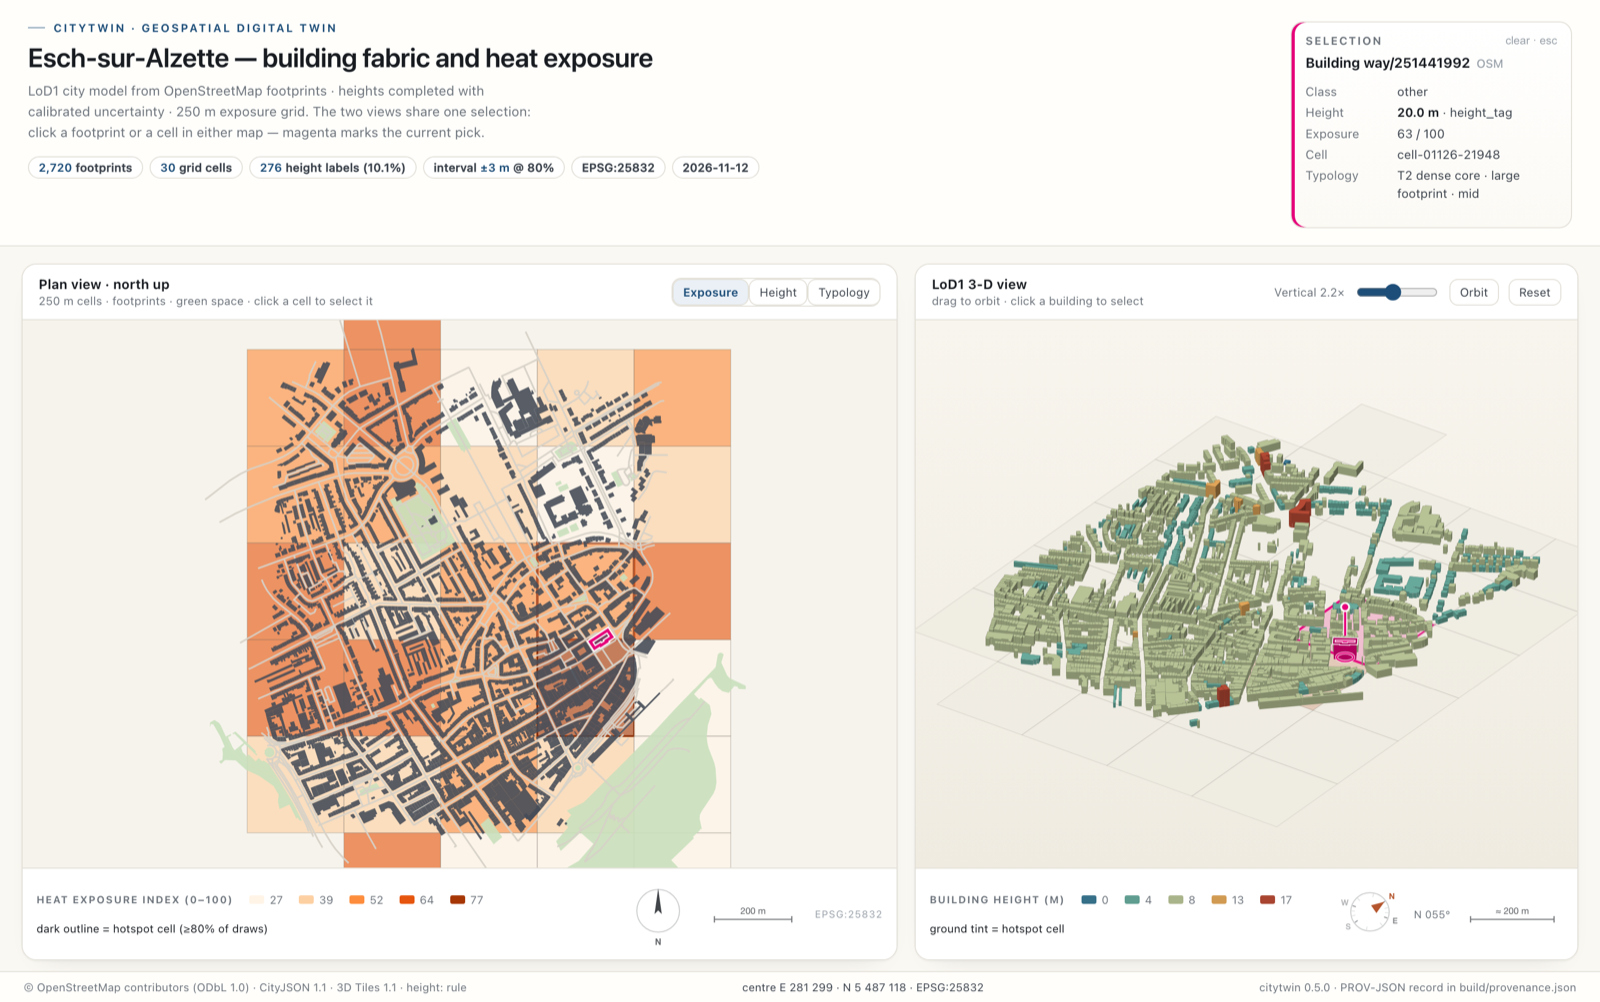
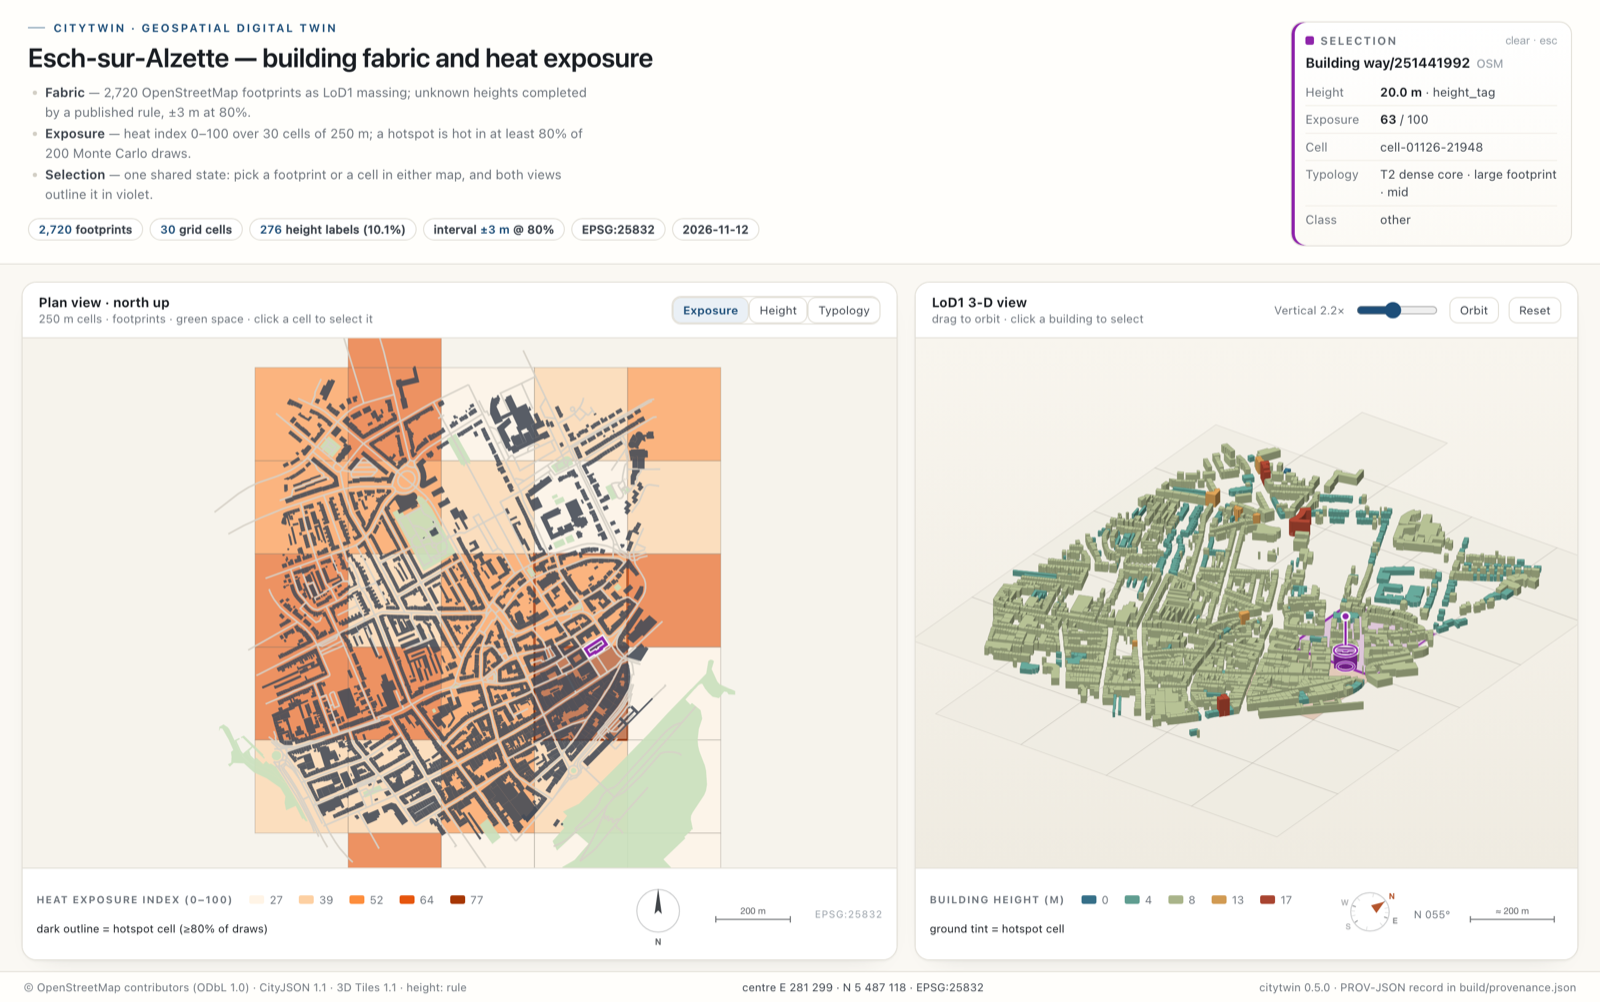
Viewer: bulleted page copy and a violet selection that reads on every ramp
- header now states the three ideas as bullets: fabric, exposure, shared selection
- selection panel explains the interaction as bullets, and reports a building or
  cell as labelled rows instead of a dense key-value block
- selection colour moves from hot magenta to violet #8e24aa with a white halo; the
  3-D view adds a roof reticle and pin so the pick is findable in a dense block

diff --git a/web/index.html b/web/index.html
@@ -10,7 +10,7 @@
     --line:#e3e0d8; --line-strong:#d2cec4;
     --paper:#faf8f3; --panel:#fffefb; --canvas:#f5f2eb;
     --accent:#1d4e79; --accent-2:#b4552d; --accent-soft:#eaf0f6;
-    --green:#bcd8b6; --signal:#e6007a;
+    --green:#bcd8b6; --signal:#8e24aa;
   }
   *{box-sizing:border-box}
   html,body{height:100%}
@@ -25,7 +25,11 @@
     font-weight:650;margin:0 0 7px;display:flex;align-items:center;gap:8px}
   .kicker::before{content:"";width:16px;height:1px;background:var(--accent);opacity:.6}
   h1{margin:0;font-size:25px;font-weight:620;letter-spacing:-.015em;line-height:1.18}
-  .sub{margin:7px 0 0;color:var(--muted);font-size:12.5px;max-width:62ch;line-height:1.55}
+  .lede{margin:9px 0 0;padding:0 0 0 16px;max-width:70ch;color:var(--muted);
+    font-size:12.2px;line-height:1.5}
+  .lede li{margin:2px 0}
+  .lede li::marker{color:var(--line-strong)}
+  .lede b{color:var(--ink-soft);font-weight:640}
   .chips{display:flex;gap:6px;flex-wrap:wrap;margin-top:13px}
   .chip{background:#fff;color:var(--ink-soft);border:1px solid var(--line);
     border-radius:999px;padding:3px 9px;font-size:10.8px;font-weight:520;letter-spacing:.01em}
@@ -35,7 +39,9 @@
     background:linear-gradient(180deg,#fff,#fcfaf5);padding:11px 13px 12px;
     box-shadow:0 1px 0 rgba(24,28,33,.03)}
   .inspector h2{margin:0 0 7px;font-size:10.5px;letter-spacing:.12em;text-transform:uppercase;
-    color:var(--muted);font-weight:650;display:flex;justify-content:space-between;align-items:center}
+    color:var(--muted);font-weight:650;display:flex;align-items:center;gap:6px}
+  .inspector h2::before{content:"";width:8px;height:8px;border-radius:2px;background:var(--signal);flex:0 0 8px}
+  .inspector h2 button{margin-left:auto}
   #inspector.sel{box-shadow:inset 3px 0 0 var(--signal)}
   .inspector h2 button{border:none;background:none;color:var(--faint);font-size:10.5px;
     padding:0;cursor:pointer;letter-spacing:0;text-transform:none}
@@ -47,6 +53,18 @@
   .kv dd strong{color:var(--ink);font-weight:640}
   .inspect-id{font-size:13px;font-weight:650;margin:0 0 8px;letter-spacing:-.01em}
   .inspect-id span{color:var(--faint);font-weight:500;font-size:11px;margin-left:6px}
+  .facts{list-style:none;margin:0;padding:0;font-size:11.5px;line-height:1.45}
+  .facts li{display:grid;grid-template-columns:62px 1fr;gap:8px;padding:4px 0;
+    border-bottom:1px solid #f2efe8}
+  .facts li:last-child{border-bottom:0}
+  .facts .k{color:var(--muted)}
+  .facts .v{color:var(--ink-soft);font-variant-numeric:tabular-nums}
+  .facts .v strong{color:var(--ink);font-weight:640}
+  .hints{margin:6px 0 0;padding:0 0 0 14px;color:var(--muted);font-size:11.5px;
+    line-height:1.5}
+  .hints li{margin:2px 0}
+  .hints li::marker{color:var(--line-strong)}
+  .empty-lead{margin:0;color:var(--ink-soft);font-size:11.8px;font-weight:600}
 
   main{flex:1;display:grid;grid-template-columns:1.32fr 1fr;gap:16px;padding:16px 20px 10px;min-height:0}
   .panel{background:var(--panel);border:1px solid var(--line);border-radius:14px;display:flex;
@@ -114,12 +132,23 @@
   <div class="masthead">
     <p class="kicker">citytwin · geospatial digital twin</p>
     <h1>Esch-sur-Alzette — building fabric and heat exposure</h1>
-    <p class="sub">LoD1 city model from OpenStreetMap footprints · heights completed with calibrated uncertainty · 250 m exposure grid. The two views share one selection: click a footprint or a cell in either map — magenta marks the current pick.</p>
+    <ul class="lede">
+      <li><b>Fabric</b> — 2,720 OpenStreetMap footprints as LoD1 massing; unknown heights completed by a published rule, ±3 m at 80%.</li>
+      <li><b>Exposure</b> — heat index 0–100 over 30 cells of 250 m; a hotspot is hot in at least 80% of 200 Monte Carlo draws.</li>
+      <li><b>Selection</b> — one shared state: pick a footprint or a cell in either map, and both views outline it in violet.</li>
+    </ul>
     <div class="chips" id="chips"></div>
   </div>
   <aside class="inspector" id="inspector">
     <h2>Selection <button id="clearSel" hidden>clear · esc</button></h2>
-    <div id="inspectBody"><p class="empty">Nothing selected. Click a building in the plan or the 3-D view; click a cell background to select a grid cell.</p></div>
+    <div id="inspectBody">
+      <p class="empty-lead">Nothing selected yet</p>
+      <ul class="hints">
+        <li>Click a building in either map.</li>
+        <li>Click a cell background to select the 250 m cell.</li>
+        <li>Press <b>Esc</b>, or clear above, to reset.</li>
+      </ul>
+    </div>
   </aside>
 </header>
 
@@ -208,7 +237,7 @@
   const HEIGHT_RAMP = ['#356f88','#5f9d90','#a9b48a','#d19a52','#a84430'];
   const TYPO_COLOURS = ['#4e79a7','#f28e2b','#59a14f','#b07aa1','#76b7b2','#edc948','#9c755f'];
   const ACCENT = '#b4552d';
-  const SIGNAL = '#e6007a';      // selection only — no base layer uses magenta
+  const SIGNAL = '#8e24aa';      // selection only — a violet no base ramp uses
   const INK = '#191d22';
 
   const state = {
@@ -427,11 +456,11 @@
       pts.forEach((p,k)=> k?planCtx.lineTo(p[0],p[1]):planCtx.moveTo(p[0],p[1]));
       planCtx.closePath();
       if(selected >= 0){
-        planCtx.fillStyle = 'rgba(230,0,122,.22)'; planCtx.fill();
+        planCtx.fillStyle = 'rgba(142,36,170,.18)'; planCtx.fill();
         planCtx.strokeStyle = 'rgba(255,255,255,.96)'; planCtx.lineWidth = 5.2; planCtx.stroke();
         planCtx.strokeStyle = SIGNAL; planCtx.lineWidth = 2.7; planCtx.stroke();
       } else {
-        planCtx.strokeStyle = 'rgba(230,0,122,.85)'; planCtx.lineWidth = 1.4; planCtx.stroke();
+        planCtx.strokeStyle = 'rgba(142,36,170,.85)'; planCtx.lineWidth = 1.4; planCtx.stroke();
       }
     }
 
@@ -613,7 +642,12 @@
       isoCtx.ellipse(px, py, 8, 4, 0, 0, Math.PI*2);
       isoCtx.strokeStyle = 'rgba(255,255,255,.95)'; isoCtx.lineWidth = 2.6; isoCtx.stroke();
       isoCtx.strokeStyle = alpha(SIGNAL,.95); isoCtx.lineWidth = 1.6; isoCtx.stroke();
-      // pin above the roof: easy to spot in a dense block
+      // reticle on the roof plus a pin above it: easy to spot in a dense block
+      isoCtx.beginPath();
+      isoCtx.ellipse(rx, ry, 11, 5.5, 0, 0, Math.PI*2);
+      isoCtx.strokeStyle = 'rgba(255,255,255,.95)'; isoCtx.lineWidth = 3.2; isoCtx.stroke();
+      isoCtx.strokeStyle = alpha(SIGNAL,.95); isoCtx.lineWidth = 1.8; isoCtx.stroke();
+      // pin above the roof
       isoCtx.beginPath(); isoCtx.moveTo(rx, ry-5); isoCtx.lineTo(rx, ry-30);
       isoCtx.strokeStyle = 'rgba(255,255,255,.95)'; isoCtx.lineWidth = 4; isoCtx.stroke();
       isoCtx.strokeStyle = SIGNAL; isoCtx.lineWidth = 2; isoCtx.stroke();
@@ -721,13 +755,13 @@
       clear.hidden = false;
       body.innerHTML =
         '<p class="inspect-id">Building '+b.id+'<span>OSM</span></p>' +
-        '<dl class="kv">' +
-        '<dt>Class</dt><dd>'+b.k+'</dd>' +
-        '<dt>Height</dt><dd><strong>'+b.h.toFixed(1)+' m</strong> · '+b.p+'</dd>' +
-        '<dt>Exposure</dt><dd>'+(isFinite(b.hei)?b.hei.toFixed(0):'–')+' / 100</dd>' +
-        '<dt>Cell</dt><dd>'+b.cid+'</dd>' +
-        '<dt>Typology</dt><dd>'+b.tn+'</dd>' +
-        '</dl>';
+        '<ul class="facts">' +
+        '<li><span class="k">Height</span><span class="v"><strong>'+b.h.toFixed(1)+' m</strong> · '+b.p+'</span></li>' +
+        '<li><span class="k">Exposure</span><span class="v"><strong>'+(isFinite(b.hei)?b.hei.toFixed(0):'–')+'</strong> / 100</span></li>' +
+        '<li><span class="k">Cell</span><span class="v">'+b.cid+'</span></li>' +
+        '<li><span class="k">Typology</span><span class="v">'+b.tn+'</span></li>' +
+        '<li><span class="k">Class</span><span class="v">'+b.k+'</span></li>' +
+        '</ul>';
       return;
     }
     if(state.selC >= 0){
@@ -735,15 +769,21 @@
       clear.hidden = false;
       body.innerHTML =
         '<p class="inspect-id">Cell '+cell.id+'<span>250 m grid</span></p>' +
-        '<dl class="kv">' +
-        '<dt>Exposure</dt><dd><strong>'+cell.hei.toFixed(0)+'</strong> / 100</dd>' +
-        '<dt>Hotspot</dt><dd>'+(isFinite(cell.hp)?Math.round(cell.hp*100)+'% of draws':'–')+'</dd>' +
-        '<dt>Buildings</dt><dd>'+cellBuildings(state.selC)+'</dd>' +
-        '</dl>';
+        '<ul class="facts">' +
+        '<li><span class="k">Exposure</span><span class="v"><strong>'+cell.hei.toFixed(0)+'</strong> / 100</span></li>' +
+        '<li><span class="k">Hotspot</span><span class="v">'+(isFinite(cell.hp)?Math.round(cell.hp*100)+'% of draws':'–')+'</span></li>' +
+        '<li><span class="k">Buildings</span><span class="v">'+cellBuildings(state.selC)+'</span></li>' +
+        '</ul>';
       return;
     }
     clear.hidden = true;
-    body.innerHTML = '<p class="empty">Nothing selected. Click a building in the plan or the 3-D view; click a cell background to select a grid cell.</p>';
+    body.innerHTML =
+      '<p class="empty-lead">Nothing selected yet</p>' +
+      '<ul class="hints">' +
+      '<li>Click a building in either map.</li>' +
+      '<li>Click a cell background to select the 250 m cell.</li>' +
+      '<li>Press <b>Esc</b>, or clear above, to reset.</li>' +
+      '</ul>';
   }
 
   function showTip(b, ev){

diff --git a/web/template.html b/web/template.html
@@ -10,7 +10,7 @@
     --line:#e3e0d8; --line-strong:#d2cec4;
     --paper:#faf8f3; --panel:#fffefb; --canvas:#f5f2eb;
     --accent:#1d4e79; --accent-2:#b4552d; --accent-soft:#eaf0f6;
-    --green:#bcd8b6; --signal:#e6007a;
+    --green:#bcd8b6; --signal:#8e24aa;
   }
   *{box-sizing:border-box}
   html,body{height:100%}
@@ -25,7 +25,11 @@
     font-weight:650;margin:0 0 7px;display:flex;align-items:center;gap:8px}
   .kicker::before{content:"";width:16px;height:1px;background:var(--accent);opacity:.6}
   h1{margin:0;font-size:25px;font-weight:620;letter-spacing:-.015em;line-height:1.18}
-  .sub{margin:7px 0 0;color:var(--muted);font-size:12.5px;max-width:62ch;line-height:1.55}
+  .lede{margin:9px 0 0;padding:0 0 0 16px;max-width:70ch;color:var(--muted);
+    font-size:12.2px;line-height:1.5}
+  .lede li{margin:2px 0}
+  .lede li::marker{color:var(--line-strong)}
+  .lede b{color:var(--ink-soft);font-weight:640}
   .chips{display:flex;gap:6px;flex-wrap:wrap;margin-top:13px}
   .chip{background:#fff;color:var(--ink-soft);border:1px solid var(--line);
     border-radius:999px;padding:3px 9px;font-size:10.8px;font-weight:520;letter-spacing:.01em}
@@ -35,7 +39,9 @@
     background:linear-gradient(180deg,#fff,#fcfaf5);padding:11px 13px 12px;
     box-shadow:0 1px 0 rgba(24,28,33,.03)}
   .inspector h2{margin:0 0 7px;font-size:10.5px;letter-spacing:.12em;text-transform:uppercase;
-    color:var(--muted);font-weight:650;display:flex;justify-content:space-between;align-items:center}
+    color:var(--muted);font-weight:650;display:flex;align-items:center;gap:6px}
+  .inspector h2::before{content:"";width:8px;height:8px;border-radius:2px;background:var(--signal);flex:0 0 8px}
+  .inspector h2 button{margin-left:auto}
   #inspector.sel{box-shadow:inset 3px 0 0 var(--signal)}
   .inspector h2 button{border:none;background:none;color:var(--faint);font-size:10.5px;
     padding:0;cursor:pointer;letter-spacing:0;text-transform:none}
@@ -47,6 +53,18 @@
   .kv dd strong{color:var(--ink);font-weight:640}
   .inspect-id{font-size:13px;font-weight:650;margin:0 0 8px;letter-spacing:-.01em}
   .inspect-id span{color:var(--faint);font-weight:500;font-size:11px;margin-left:6px}
+  .facts{list-style:none;margin:0;padding:0;font-size:11.5px;line-height:1.45}
+  .facts li{display:grid;grid-template-columns:62px 1fr;gap:8px;padding:4px 0;
+    border-bottom:1px solid #f2efe8}
+  .facts li:last-child{border-bottom:0}
+  .facts .k{color:var(--muted)}
+  .facts .v{color:var(--ink-soft);font-variant-numeric:tabular-nums}
+  .facts .v strong{color:var(--ink);font-weight:640}
+  .hints{margin:6px 0 0;padding:0 0 0 14px;color:var(--muted);font-size:11.5px;
+    line-height:1.5}
+  .hints li{margin:2px 0}
+  .hints li::marker{color:var(--line-strong)}
+  .empty-lead{margin:0;color:var(--ink-soft);font-size:11.8px;font-weight:600}
 
   main{flex:1;display:grid;grid-template-columns:1.32fr 1fr;gap:16px;padding:16px 20px 10px;min-height:0}
   .panel{background:var(--panel);border:1px solid var(--line);border-radius:14px;display:flex;
@@ -114,12 +132,23 @@
   <div class="masthead">
     <p class="kicker">citytwin · geospatial digital twin</p>
     <h1>Esch-sur-Alzette — building fabric and heat exposure</h1>
-    <p class="sub">LoD1 city model from OpenStreetMap footprints · heights completed with calibrated uncertainty · 250 m exposure grid. The two views share one selection: click a footprint or a cell in either map — magenta marks the current pick.</p>
+    <ul class="lede">
+      <li><b>Fabric</b> — 2,720 OpenStreetMap footprints as LoD1 massing; unknown heights completed by a published rule, ±3 m at 80%.</li>
+      <li><b>Exposure</b> — heat index 0–100 over 30 cells of 250 m; a hotspot is hot in at least 80% of 200 Monte Carlo draws.</li>
+      <li><b>Selection</b> — one shared state: pick a footprint or a cell in either map, and both views outline it in violet.</li>
+    </ul>
     <div class="chips" id="chips"></div>
   </div>
   <aside class="inspector" id="inspector">
     <h2>Selection <button id="clearSel" hidden>clear · esc</button></h2>
-    <div id="inspectBody"><p class="empty">Nothing selected. Click a building in the plan or the 3-D view; click a cell background to select a grid cell.</p></div>
+    <div id="inspectBody">
+      <p class="empty-lead">Nothing selected yet</p>
+      <ul class="hints">
+        <li>Click a building in either map.</li>
+        <li>Click a cell background to select the 250 m cell.</li>
+        <li>Press <b>Esc</b>, or clear above, to reset.</li>
+      </ul>
+    </div>
   </aside>
 </header>
 
@@ -208,7 +237,7 @@
   const HEIGHT_RAMP = ['#356f88','#5f9d90','#a9b48a','#d19a52','#a84430'];
   const TYPO_COLOURS = ['#4e79a7','#f28e2b','#59a14f','#b07aa1','#76b7b2','#edc948','#9c755f'];
   const ACCENT = '#b4552d';
-  const SIGNAL = '#e6007a';      // selection only — no base layer uses magenta
+  const SIGNAL = '#8e24aa';      // selection only — a violet no base ramp uses
   const INK = '#191d22';
 
   const state = {
@@ -427,11 +456,11 @@
       pts.forEach((p,k)=> k?planCtx.lineTo(p[0],p[1]):planCtx.moveTo(p[0],p[1]));
       planCtx.closePath();
       if(selected >= 0){
-        planCtx.fillStyle = 'rgba(230,0,122,.22)'; planCtx.fill();
+        planCtx.fillStyle = 'rgba(142,36,170,.18)'; planCtx.fill();
         planCtx.strokeStyle = 'rgba(255,255,255,.96)'; planCtx.lineWidth = 5.2; planCtx.stroke();
         planCtx.strokeStyle = SIGNAL; planCtx.lineWidth = 2.7; planCtx.stroke();
       } else {
-        planCtx.strokeStyle = 'rgba(230,0,122,.85)'; planCtx.lineWidth = 1.4; planCtx.stroke();
+        planCtx.strokeStyle = 'rgba(142,36,170,.85)'; planCtx.lineWidth = 1.4; planCtx.stroke();
       }
     }
 
@@ -613,7 +642,12 @@
       isoCtx.ellipse(px, py, 8, 4, 0, 0, Math.PI*2);
       isoCtx.strokeStyle = 'rgba(255,255,255,.95)'; isoCtx.lineWidth = 2.6; isoCtx.stroke();
       isoCtx.strokeStyle = alpha(SIGNAL,.95); isoCtx.lineWidth = 1.6; isoCtx.stroke();
-      // pin above the roof: easy to spot in a dense block
+      // reticle on the roof plus a pin above it: easy to spot in a dense block
+      isoCtx.beginPath();
+      isoCtx.ellipse(rx, ry, 11, 5.5, 0, 0, Math.PI*2);
+      isoCtx.strokeStyle = 'rgba(255,255,255,.95)'; isoCtx.lineWidth = 3.2; isoCtx.stroke();
+      isoCtx.strokeStyle = alpha(SIGNAL,.95); isoCtx.lineWidth = 1.8; isoCtx.stroke();
+      // pin above the roof
       isoCtx.beginPath(); isoCtx.moveTo(rx, ry-5); isoCtx.lineTo(rx, ry-30);
       isoCtx.strokeStyle = 'rgba(255,255,255,.95)'; isoCtx.lineWidth = 4; isoCtx.stroke();
       isoCtx.strokeStyle = SIGNAL; isoCtx.lineWidth = 2; isoCtx.stroke();
@@ -721,13 +755,13 @@
       clear.hidden = false;
       body.innerHTML =
         '<p class="inspect-id">Building '+b.id+'<span>OSM</span></p>' +
-        '<dl class="kv">' +
-        '<dt>Class</dt><dd>'+b.k+'</dd>' +
-        '<dt>Height</dt><dd><strong>'+b.h.toFixed(1)+' m</strong> · '+b.p+'</dd>' +
-        '<dt>Exposure</dt><dd>'+(isFinite(b.hei)?b.hei.toFixed(0):'–')+' / 100</dd>' +
-        '<dt>Cell</dt><dd>'+b.cid+'</dd>' +
-        '<dt>Typology</dt><dd>'+b.tn+'</dd>' +
-        '</dl>';
+        '<ul class="facts">' +
+        '<li><span class="k">Height</span><span class="v"><strong>'+b.h.toFixed(1)+' m</strong> · '+b.p+'</span></li>' +
+        '<li><span class="k">Exposure</span><span class="v"><strong>'+(isFinite(b.hei)?b.hei.toFixed(0):'–')+'</strong> / 100</span></li>' +
+        '<li><span class="k">Cell</span><span class="v">'+b.cid+'</span></li>' +
+        '<li><span class="k">Typology</span><span class="v">'+b.tn+'</span></li>' +
+        '<li><span class="k">Class</span><span class="v">'+b.k+'</span></li>' +
+        '</ul>';
       return;
     }
     if(state.selC >= 0){
@@ -735,15 +769,21 @@
       clear.hidden = false;
       body.innerHTML =
         '<p class="inspect-id">Cell '+cell.id+'<span>250 m grid</span></p>' +
-        '<dl class="kv">' +
-        '<dt>Exposure</dt><dd><strong>'+cell.hei.toFixed(0)+'</strong> / 100</dd>' +
-        '<dt>Hotspot</dt><dd>'+(isFinite(cell.hp)?Math.round(cell.hp*100)+'% of draws':'–')+'</dd>' +
-        '<dt>Buildings</dt><dd>'+cellBuildings(state.selC)+'</dd>' +
-        '</dl>';
+        '<ul class="facts">' +
+        '<li><span class="k">Exposure</span><span class="v"><strong>'+cell.hei.toFixed(0)+'</strong> / 100</span></li>' +
+        '<li><span class="k">Hotspot</span><span class="v">'+(isFinite(cell.hp)?Math.round(cell.hp*100)+'% of draws':'–')+'</span></li>' +
+        '<li><span class="k">Buildings</span><span class="v">'+cellBuildings(state.selC)+'</span></li>' +
+        '</ul>';
       return;
     }
     clear.hidden = true;
-    body.innerHTML = '<p class="empty">Nothing selected. Click a building in the plan or the 3-D view; click a cell background to select a grid cell.</p>';
+    body.innerHTML =
+      '<p class="empty-lead">Nothing selected yet</p>' +
+      '<ul class="hints">' +
+      '<li>Click a building in either map.</li>' +
+      '<li>Click a cell background to select the 250 m cell.</li>' +
+      '<li>Press <b>Esc</b>, or clear above, to reset.</li>' +
+      '</ul>';
   }
 
   function showTip(b, ev){

diff --git a/README.md b/README.md
@@ -105,7 +105,7 @@ dependencies. `?mode=height` and `?mode=typology` switch the colouring, `?exag=0
 sets the vertical exaggeration, `?sel=<id>` and `?cell=<id>` open a given selection, and
 `Esc` clears it. Both panels are drawn from one payload, so a click, a hover and a cell
 selection are shared: the plan stays north-up, the 3-D compass turns with the orbit and
-prints the bearing. The active footprint and cell are drawn in a signal magenta with a
+prints the bearing. The active footprint and cell are drawn in a violet with a
 white halo — a hue absent from every base ramp — and the 3-D view pins the chosen
 building with a leader line so it stays findable inside a dense block. Legends, the
 north arrow or compass, the scale bar and the EPSG:25832 readout sit in a strip below
@@ -115,7 +115,7 @@ each map rather than on top of it, so the canvas is never covered. The viewer ru
 
 ![The same building selected in both views](docs/assets/selection_view.png)
 *A shared selection (`?sel=36`): one click highlights the footprint in the plan and pins
-it in the 3-D view, with its 250 m cell framed in the same signal colour.*
+it in the 3-D view, with its 250 m cell framed in the same violet.*
 
 ## Pipeline
 
